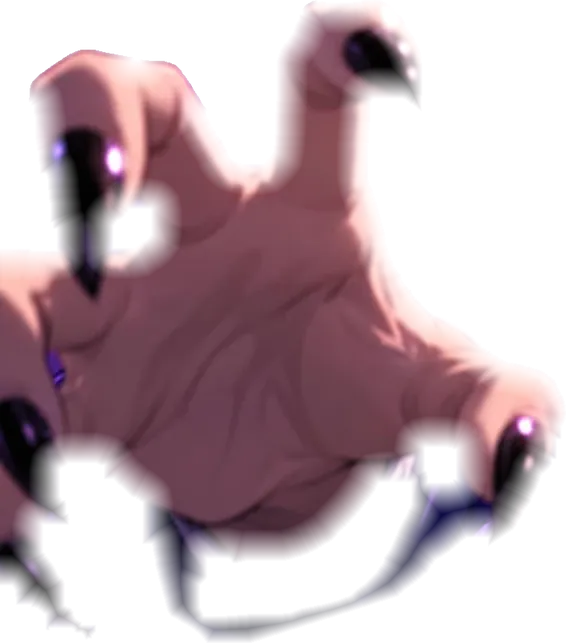
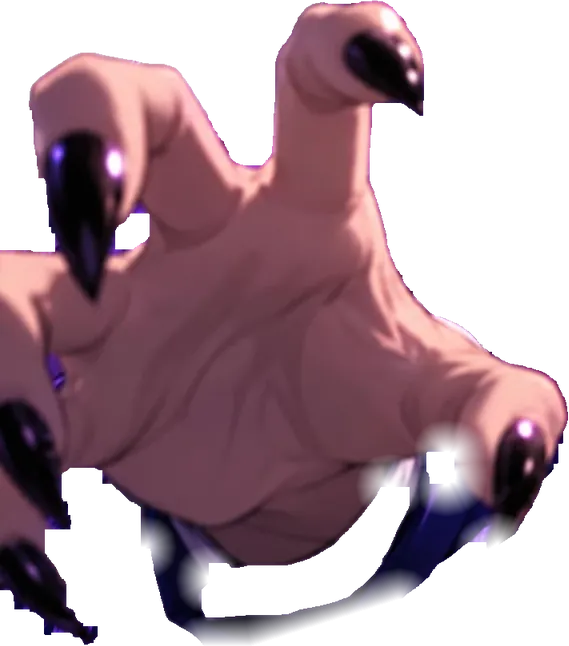
Главная: руки двигаются целиком, персонажи следят за курсором и реагируют на касание, глитчи и угольки у РКН-тян, искры у Запрет-тян, столкновения в дуэли; искра разрыва цепи не всплывает раньше времени

Changed region(s): [[0.0, 0.0, 1.0, 1.0], [0.0, 0.0622, 0.3304, 0.4355]]

diff --git a/public/assets/zapret-moe/home.css b/public/assets/zapret-moe/home.css
@@ -1509,7 +1509,8 @@ html.zpm-intro-on .zi:not(.zi-run) {
 .zh-bits i:nth-child(8) { --dx: -0.3em; --dy: 1em; animation-delay: 2.4s; }
 
 @keyframes zh-bit {
-  0% { opacity: 1; transform: translate(0, 0) scale(1.6); }
+  0% { opacity: 0; transform: translate(0, 0) scale(1.6); }
+  4% { opacity: 1; transform: translate(0, 0) scale(1.6); }
   100% { opacity: 0; transform: translate(var(--dx), var(--dy)) scale(0.4); }
 }
 
@@ -2038,13 +2039,6 @@ html.zpm-intro-on .zi:not(.zi-run) {
   transform: none;
 }
 
-.zd-on .zd-side .zrig {
-  animation: zd-float 6s ease-in-out infinite alternate;
-}
-
-.zd-on .zd-right .zrig {
-  animation-delay: -3s;
-}
 
 @keyframes zd-float {
   from { transform: translateY(0); }
@@ -2187,6 +2181,295 @@ html.zpm-intro-on .zi:not(.zi-run) {
     right: 16px;
     left: auto;
   }
+}
+
+/* ── Живость персонажей ─────────────────────────────────────────────────
+   --px/--py (−1…1) выставляет home.js по положению курсора: слои сдвигаются
+   на разную глубину — волосы сзади, руки ближе всего к зрителю.            */
+
+.zrig {
+  --px: 0;
+  --py: 0;
+}
+
+.zr-base { translate: calc(var(--px) * 0.6%) calc(var(--py) * 0.5%); }
+.zr-hair { translate: calc(var(--px) * -1.1%) calc(var(--py) * -0.8%); }
+.zr-rim { translate: calc(var(--px) * -0.4%) calc(var(--py) * -0.3%); }
+.zr-hand { translate: calc(var(--px) * 2.2%) calc(var(--py) * 1.8%); }
+.zr-eye { translate: calc(var(--px) * 0.6vw) calc(var(--py) * 0.5vw); }
+
+/* РКН-тян: срывы сигнала */
+.zr-gl {
+  opacity: 0;
+  mix-blend-mode: screen;
+  pointer-events: none;
+}
+
+.zr-gl-a {
+  filter: sepia(1) saturate(8) hue-rotate(-50deg) brightness(0.9);
+  animation: zr-glitch-a 5.3s steps(1) infinite;
+}
+
+.zr-gl-b {
+  filter: sepia(1) saturate(6) hue-rotate(140deg) brightness(0.9);
+  animation: zr-glitch-b 5.3s steps(1) infinite;
+}
+
+@keyframes zr-glitch-a {
+  0%, 70%, 100% { opacity: 0; clip-path: inset(0); transform: none; }
+  71% { opacity: 0.85; clip-path: inset(18% 0 62% 0); transform: translateX(-2.4%); }
+  73% { opacity: 0.85; clip-path: inset(44% 0 38% 0); transform: translateX(3%); }
+  75% { opacity: 0.7; clip-path: inset(66% 0 20% 0); transform: translateX(-1.4%); }
+  77% { opacity: 0.85; clip-path: inset(30% 0 55% 0); transform: translateX(1.8%); }
+  79% { opacity: 0; }
+}
+
+@keyframes zr-glitch-b {
+  0%, 71%, 100% { opacity: 0; clip-path: inset(0); transform: none; }
+  72% { opacity: 0.75; clip-path: inset(20% 0 60% 0); transform: translateX(2.2%); }
+  74% { opacity: 0.75; clip-path: inset(46% 0 36% 0); transform: translateX(-2.8%); }
+  76% { opacity: 0.6; clip-path: inset(64% 0 22% 0); transform: translateX(1.6%); }
+  78% { opacity: 0; }
+}
+
+.zr-rkn .zr-in {
+  animation: zr-breathe 4.2s ease-in-out infinite, zr-jolt 5.3s steps(1) infinite;
+}
+
+@keyframes zr-jolt {
+  0%, 70%, 80%, 100% { filter: none; }
+  71%, 75% { filter: contrast(1.25) saturate(1.3) brightness(1.1); }
+  73% { filter: hue-rotate(-12deg) contrast(1.3); }
+}
+
+.zr-fx {
+  position: absolute;
+  inset: 0;
+  pointer-events: none;
+}
+
+.zr-embers i {
+  position: absolute;
+  bottom: 4%;
+  left: calc(var(--ex2) / 16 * 1%);
+  width: 0.45%;
+  aspect-ratio: 1;
+  border-radius: 50%;
+  background: #ffb199;
+  box-shadow: 0 0 6px 2px #ff3b5c, 0 0 14px 4px rgba(255, 59, 92, 0.5);
+  opacity: 0;
+  scale: var(--s);
+  animation: zr-ember var(--dur) linear var(--d) infinite;
+}
+
+@keyframes zr-ember {
+  0% { opacity: 0; transform: translate(0, 0); }
+  10% { opacity: 0.9; }
+  50% { transform: translate(1.2vw, -30vh); }
+  100% { opacity: 0; transform: translate(-0.8vw, -62vh); }
+}
+
+/* Запрет-тян: искры на пальцах */
+.zr-sparks i {
+  position: absolute;
+  top: calc(var(--ey) / 9 * 1%);
+  left: calc(var(--ex) / 16 * 1%);
+  width: 3.2%;
+  aspect-ratio: 1;
+  translate: -50% -50%;
+  background:
+    linear-gradient(90deg, transparent 46%, #fff 50%, transparent 54%),
+    linear-gradient(0deg, transparent 46%, #fff 50%, transparent 54%),
+    radial-gradient(circle, #fff 0 6%, rgba(79, 209, 255, 0.9) 12%, transparent 40%);
+  filter: drop-shadow(0 0 6px #4fd1ff);
+  opacity: 0;
+  animation: zr-twinkle2 2.2s ease-in-out var(--d) infinite;
+}
+
+@keyframes zr-twinkle2 {
+  0%, 60%, 100% { opacity: 0; transform: scale(0.2) rotate(0); }
+  75% { opacity: 1; transform: scale(1) rotate(45deg); }
+  90% { opacity: 0.4; transform: scale(0.6) rotate(90deg); }
+}
+
+.zr-zt .zr-in {
+  animation: zr-breathe 4.2s ease-in-out infinite, zr-hop 3.4s cubic-bezier(0.3, 0, 0.3, 1) infinite;
+}
+
+@keyframes zr-hop {
+  0%, 70%, 100% { translate: 0 0; }
+  78% { translate: 0 -1.6%; }
+  86% { translate: 0 0.3%; }
+  92% { translate: 0 -0.5%; }
+}
+
+/* реакции на наведение / касание (класс ставит home.js) */
+.zr-rkn.zr-poke .zr-in {
+  animation: zr-lunge 0.7s cubic-bezier(0.3, 0, 0.2, 1);
+}
+
+@keyframes zr-lunge {
+  0% { transform: none; filter: none; }
+  30% { transform: scale(1.07) translateY(1.5%); filter: brightness(1.25) saturate(1.4) drop-shadow(0 0 30px #ff2b4f); }
+  100% { transform: none; filter: none; }
+}
+
+.zr-rkn.zr-poke .zr-eye {
+  animation: zr-flare 0.7s ease-out;
+}
+
+@keyframes zr-flare {
+  30% { opacity: 1; transform: translate(-50%, -50%) scale(2.4); }
+}
+
+.zr-zt.zr-poke .zr-in {
+  animation: zr-jump 0.7s cubic-bezier(0.3, 0, 0.3, 1);
+}
+
+@keyframes zr-jump {
+  0%, 100% { transform: none; }
+  35% { transform: translateY(-4%) rotate(-1.5deg) scale(1.03); }
+  65% { transform: translateY(0.6%) scale(0.99, 1.01); }
+}
+
+.zr-zt.zr-poke .zr-sparks i {
+  animation: zr-burst 0.8s ease-out;
+}
+
+@keyframes zr-burst {
+  0% { opacity: 1; transform: scale(0.3) rotate(0); }
+  50% { opacity: 1; transform: scale(2.2) rotate(90deg); }
+  100% { opacity: 0; transform: scale(0.5) rotate(180deg); }
+}
+
+/* ── дуэль: столкновение раз в 6 секунд ── */
+.zd-on .zd-left .zrig { animation: zd-float 6s ease-in-out infinite alternate, zd-clash-l 6s cubic-bezier(0.5, 0, 0.2, 1) 1.5s infinite; }
+.zd-on .zd-right .zrig { animation: zd-float 6s ease-in-out -3s infinite alternate, zd-clash-r 6s cubic-bezier(0.5, 0, 0.2, 1) 1.5s infinite; }
+
+@keyframes zd-clash-l {
+  0%, 82%, 100% { translate: 0 0; }
+  88% { translate: 5% 0; }
+  90% { translate: 2% 0; }
+}
+
+@keyframes zd-clash-r {
+  0%, 82%, 100% { translate: 0 0; }
+  88% { translate: -5% 0; }
+  90% { translate: -2% 0; }
+}
+
+.zd::after {
+  position: absolute;
+  top: 50%;
+  left: 50%;
+  z-index: 3;
+  width: 40vmin;
+  aspect-ratio: 1;
+  content: "";
+  border: 3px solid rgba(232, 246, 255, 0.9);
+  border-radius: 50%;
+  box-shadow: 0 0 30px #4fd1ff, inset 0 0 30px #ff3b5c;
+  opacity: 0;
+  pointer-events: none;
+  transform: translate(-50%, -50%) scale(0.1);
+}
+
+.zd-on::after {
+  animation: zd-wave 6s ease-out 1.5s infinite;
+}
+
+@keyframes zd-wave {
+  0%, 87% { opacity: 0; transform: translate(-50%, -50%) scale(0.1); }
+  88% { opacity: 1; transform: translate(-50%, -50%) scale(0.2); }
+  96% { opacity: 0; transform: translate(-50%, -50%) scale(1.6); }
+  100% { opacity: 0; }
+}
+
+.zd-on .zd-vs span {
+  animation: zd-vs 1.6s ease-in-out infinite alternate, zd-vs-hit 6s ease-out 1.5s infinite;
+}
+
+@keyframes zd-vs-hit {
+  0%, 87%, 100% { filter: drop-shadow(0 0 18px rgba(155, 123, 255, 0.8)); }
+  88% { filter: drop-shadow(0 0 40px #fff) brightness(2); }
+}
+
+.zd-on {
+  animation: zd-shake 6s linear 1.5s infinite;
+}
+
+@keyframes zd-shake {
+  0%, 87.5%, 91%, 100% { translate: 0 0; }
+  88% { translate: -4px 2px; }
+  89% { translate: 4px -2px; }
+  90% { translate: -2px 1px; }
+}
+
+/* ── заставка: камера на РКН-тян и влёт Запрет-тян ── */
+.zi[data-cur="2"] .zi-rig-rkn .zr-in,
+.zi[data-cur="3"] .zi-rig-rkn .zr-in,
+.zi[data-cur="4"] .zi-rig-rkn .zr-in {
+  animation: zr-breathe 4.2s ease-in-out infinite, zr-jolt 1.9s steps(1) infinite;
+}
+
+.zi.s2 .zi-stage {
+  animation: zi-push 7.5s ease-in-out forwards;
+}
+
+@keyframes zi-push {
+  from { scale: 1; }
+  to { scale: 1.12; }
+}
+
+.zi-rig-rkn .zr-gl-a,
+.zi-rig-rkn .zr-gl-b {
+  animation-duration: 1.9s;
+}
+
+.zi.s5 .zi-stage {
+  animation: none;
+  scale: 1;
+}
+
+.zi.s5 .zi-stage::before {
+  position: absolute;
+  inset: -20%;
+  z-index: 2;
+  content: "";
+  background:
+    repeating-conic-gradient(from 0deg at 20% 50%, rgba(79, 209, 255, 0.55) 0 1deg, transparent 1deg 7deg);
+  -webkit-mask-image: radial-gradient(circle at 20% 50%, transparent 18%, #000 60%);
+  mask-image: radial-gradient(circle at 20% 50%, transparent 18%, #000 60%);
+  opacity: 0;
+  pointer-events: none;
+  animation: zi-speed 1.4s ease-out 0.4s;
+}
+
+@keyframes zi-speed {
+  0% { opacity: 0; }
+  20% { opacity: 0.9; }
+  100% { opacity: 0; }
+}
+
+.zi.s5 .zi-stage::after {
+  position: absolute;
+  inset: 0;
+  z-index: 3;
+  content: "";
+  background: radial-gradient(circle at 30% 45%, #fff, rgba(79, 209, 255, 0.6) 30%, transparent 70%);
+  opacity: 0;
+  pointer-events: none;
+  animation: zi-flashin 0.8s ease-out 0.4s;
+}
+
+@keyframes zi-flashin {
+  0% { opacity: 0; }
+  15% { opacity: 0.95; }
+  100% { opacity: 0; }
+}
+
+.zi.s5 .zi-rig-zt .zr-sparks i {
+  animation: zr-burst 1s ease-out 1.1s, zr-twinkle2 2.2s ease-in-out calc(var(--d) + 2.1s) infinite;
 }
 
 /* ═══════════════════════════════════════════════════════════════════

diff --git a/public/assets/zapret-moe/home.js b/public/assets/zapret-moe/home.js
@@ -707,4 +707,42 @@
       } else setTimeout(go, 1500);
     });
   }).catch(function () {});
+
+  /* ── Персонажи: следят за курсором и реагируют на касание ────────────── */
+  (function () {
+    if (window.matchMedia && matchMedia('(prefers-reduced-motion: reduce)').matches) return;
+    var rigs = Array.prototype.slice.call(document.querySelectorAll('.zrig'));
+    if (!rigs.length) return;
+    var mx = innerWidth / 2, my = innerHeight / 2, raf = 0;
+    var state = rigs.map(function () { return { x: 0, y: 0 } });
+    function tick() {
+      raf = 0;
+      var moving = false;
+      rigs.forEach(function (r, i) {
+        var b = r.getBoundingClientRect();
+        if (!b.width || b.bottom < 0 || b.top > innerHeight) return;
+        var tx = Math.max(-1, Math.min(1, (mx - (b.left + b.width / 2)) / (b.width * 0.6)));
+        var ty = Math.max(-1, Math.min(1, (my - (b.top + b.height / 2)) / (b.height * 0.6)));
+        var s = state[i];
+        s.x += (tx - s.x) * 0.08; s.y += (ty - s.y) * 0.08;
+        if (Math.abs(tx - s.x) > 0.002 || Math.abs(ty - s.y) > 0.002) moving = true;
+        r.style.setProperty('--px', s.x.toFixed(3));
+        r.style.setProperty('--py', s.y.toFixed(3));
+      });
+      if (moving) raf = requestAnimationFrame(tick);
+    }
+    function kick() { if (!raf) raf = requestAnimationFrame(tick) }
+    addEventListener('pointermove', function (e) { mx = e.clientX; my = e.clientY; kick() }, { passive: true });
+    addEventListener('scroll', kick, { passive: true });
+    function poke(r) {
+      if (r.classList.contains('zr-poke')) return;
+      r.classList.add('zr-poke');
+      setTimeout(function () { r.classList.remove('zr-poke') }, 800);
+    }
+    rigs.forEach(function (r) {
+      var last = 0;
+      r.addEventListener('pointerenter', function () { if (Date.now() - last > 1500) { last = Date.now(); poke(r) } });
+      r.addEventListener('pointerdown', function () { poke(r) });
+    });
+  })();
 })();
